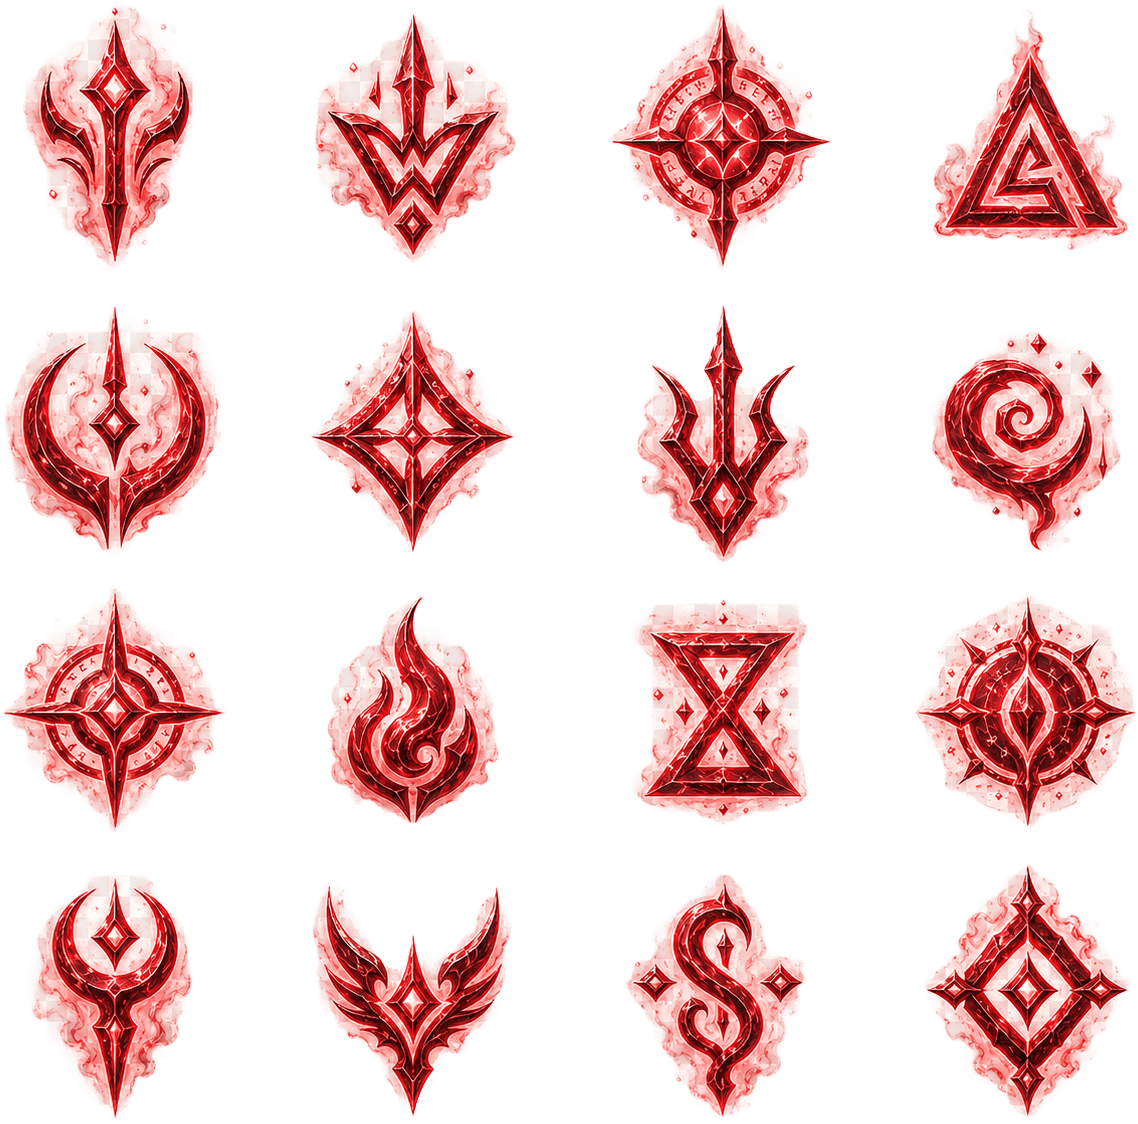
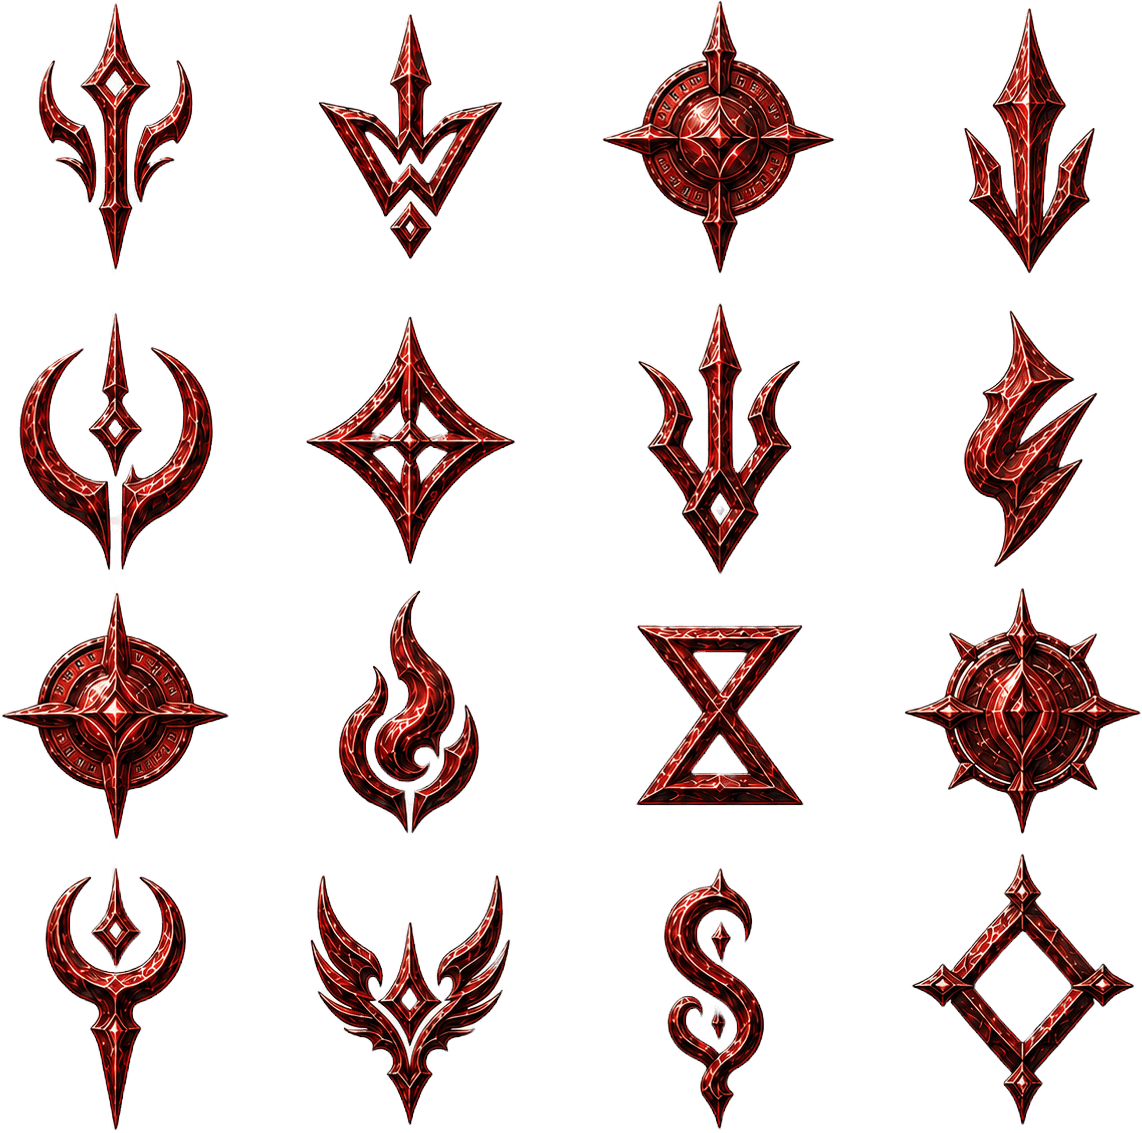
upper ui fixed

diff --git a/src/styles.css b/src/styles.css
@@ -228,18 +228,20 @@ input {
 }
 
 .hud.top {
-  top: 12px;
+  top: 6px;
   left: 50%;
   transform: translateX(-50%);
 }
 
 .status-panel {
-  width: min(460px, calc(100vw - 20px));
-  min-height: 62px;
+  display: grid;
+  grid-template-columns: minmax(58px, 0.9fr) minmax(106px, 1.65fr) minmax(42px, 0.72fr) minmax(24px, 0.42fr);
+  width: min(430px, calc(100vw - 8px));
+  min-height: 44px;
   align-items: center;
-  justify-content: space-between;
-  gap: clamp(3px, 1.4vw, 10px);
-  padding: 0 clamp(14px, 4vw, 24px);
+  justify-content: center;
+  gap: clamp(1px, 0.8vw, 6px);
+  padding: 0 clamp(7px, 2.4vw, 16px);
   background: url("../assets/images/ui/in-game/status-frame-very-wide.png") center / 100% 100% no-repeat;
   color: #ffe8ad;
   filter: drop-shadow(0 8px 12px rgba(0, 0, 0, 0.34));
@@ -247,14 +249,14 @@ input {
 
 .hud div {
   display: flex;
-  height: 62px;
+  height: 44px;
   align-items: center;
   justify-content: center;
   gap: 6px;
   padding: 0;
   border: 0;
   background: none;
-  transform: translateY(3px);
+  transform: translateY(2px);
 }
 
 .hud strong,
@@ -264,7 +266,7 @@ input {
 
 .hud strong {
   color: #fff2bf;
-  font-size: clamp(14px, 3.45vw, 20px);
+  font-size: clamp(13px, 3.35vw, 19px);
   font-variant-numeric: tabular-nums;
   font-style: italic;
   font-weight: 950;
@@ -278,11 +280,11 @@ input {
 .stage-timer {
   position: absolute;
   z-index: 3;
-  top: 72px;
+  top: 54px;
   left: 50%;
   transform: translateX(-50%);
   color: #fff6df;
-  font-size: clamp(40px, 11.7vw, 67px);
+  font-size: clamp(36px, 10.6vw, 62px);
   font-weight: 900;
   line-height: 0.9;
   letter-spacing: 0;
@@ -323,7 +325,7 @@ input {
 
 .hud span {
   color: #d8ad5f;
-  font-size: clamp(10px, 2.35vw, 12px);
+  font-size: clamp(9px, 2.25vw, 11px);
   font-style: normal;
   font-weight: 900;
   line-height: 1;
@@ -372,7 +374,7 @@ input {
 
 .health-readout {
   display: flex;
-  min-width: clamp(116px, 31vw, 168px);
+  min-width: 0;
   align-items: center;
   justify-content: center;
   border: 0;
@@ -383,15 +385,15 @@ input {
 }
 
 .health-readout strong {
-  min-width: 74px;
-  font-size: clamp(14px, 3.35vw, 19px);
+  min-width: 66px;
+  font-size: clamp(13px, 3.2vw, 18px);
   line-height: 1;
   text-align: center;
   white-space: nowrap;
 }
 
 .stage-readout {
-  min-width: clamp(62px, 16vw, 84px);
+  min-width: 0;
   color: #f8dc86;
 }
 
@@ -399,21 +401,21 @@ input {
   display: inline-flex;
   align-items: center;
   justify-content: center;
-  min-width: clamp(46px, 12vw, 68px);
-  gap: 6px;
+  min-width: 0;
+  gap: 5px;
 }
 
 .gem-readout img {
-  width: clamp(16px, 3.8vw, 20px);
-  height: clamp(16px, 3.8vw, 20px);
+  width: clamp(15px, 3.6vw, 19px);
+  height: clamp(15px, 3.6vw, 19px);
   object-fit: contain;
   filter: drop-shadow(0 0 5px rgba(155, 226, 255, 0.58));
 }
 
 .hud-control-button {
   display: grid;
-  width: clamp(30px, 8vw, 38px);
-  height: 62px;
+  width: clamp(23px, 6.4vw, 30px);
+  height: 44px;
   flex: 0 0 auto;
   place-items: center;
   border: 0;
@@ -423,7 +425,7 @@ input {
   cursor: pointer;
   pointer-events: auto;
   filter: drop-shadow(0 1px 2px rgba(0, 0, 0, 0.44));
-  transform: translateY(3px);
+  transform: translateY(2px);
 }
 
 .hud-control-button:hover {
@@ -2519,25 +2521,52 @@ input {
   }
 
   .hud.top {
-    flex-wrap: wrap;
-    max-width: calc(100% - 72px);
+    flex-wrap: nowrap;
+    width: calc(100vw - 8px);
+    max-width: 430px;
+  }
+
+  .status-panel {
+    grid-template-columns: minmax(54px, 0.9fr) minmax(102px, 1.72fr) minmax(38px, 0.68fr) minmax(22px, 0.36fr);
+    min-height: 42px;
+    padding-inline: 7px;
   }
 
   .hud div {
-    min-width: 62px;
-    padding: 7px 8px;
+    height: 42px;
+    min-width: 0;
+    padding: 0;
   }
 
   .hud strong {
-    font-size: 14px;
+    font-size: clamp(12px, 3.35vw, 15px);
   }
 
   .health-readout {
-    width: clamp(132px, 38vw, 168px);
+    min-width: 0;
   }
 
   .health-readout strong {
-    font-size: clamp(11px, 3.2vw, 14px);
+    min-width: 62px;
+    font-size: clamp(12px, 3.2vw, 15px);
+  }
+
+  .stage-readout {
+    min-width: 0;
+  }
+
+  .gem-readout {
+    min-width: 0;
+  }
+
+  .hud-control-button {
+    width: clamp(22px, 6.4vw, 28px);
+    height: 42px;
+  }
+
+  .stage-timer {
+    top: 52px;
+    font-size: clamp(34px, 10.2vw, 46px);
   }
 
   .upgrade-list {

diff --git a/docs/gameplay.md b/docs/gameplay.md
@@ -43,7 +43,7 @@ The main loop is:
 - Player stats include HP, speed, damage, fire rate, projectile speed, projectile count, pierce, magnet range, knockback, and damage taken multiplier.
 - Character selection is portrait-first and uses a simple two-column card grid. Characters should be selected directly from the visible list instead of through a draggable carousel.
 - Weapon selection follows the same portrait-first two-column card grid pattern, with weapons selected directly from the visible list.
-- The combat HUD groups Stage, HP, collected gems, and pause/start into one compact centered top status panel instead of separate framed chips. Each status item should read horizontally with the label or icon on the left and the number on the right. HUD numbers should use a slightly italic fantasy-style treatment and sit on the visual centerline of the frame, not the mathematical box center. HP is shown as `current / max`, and gem count uses the XP gem icon.
+- The combat HUD is designed mobile portrait first. Stage, HP, collected gems, and pause/start must fit in one thin centered top status panel without wrapping. The panel should use balanced columns so the Stage text does not drift too far left and the pause/start control remains inside the frame. Each status item should read horizontally with the label or icon on the left and the number on the right. HUD numbers should use a slightly italic fantasy-style treatment and sit on the visual centerline of the frame, not the mathematical box center. HP is shown as `current / max`, and gem count uses the XP gem icon.
 - The timer should be more readable than the status panel: show it as a larger unframed number at the top center, slightly below the other HUD frame.
 - The fullscreen control is not needed in combat because the title start flow already requests fullscreen.
 - When the stage timer reaches the final 10 seconds, the remaining-time number turns red, shakes lightly, and plays a short tick once per second.